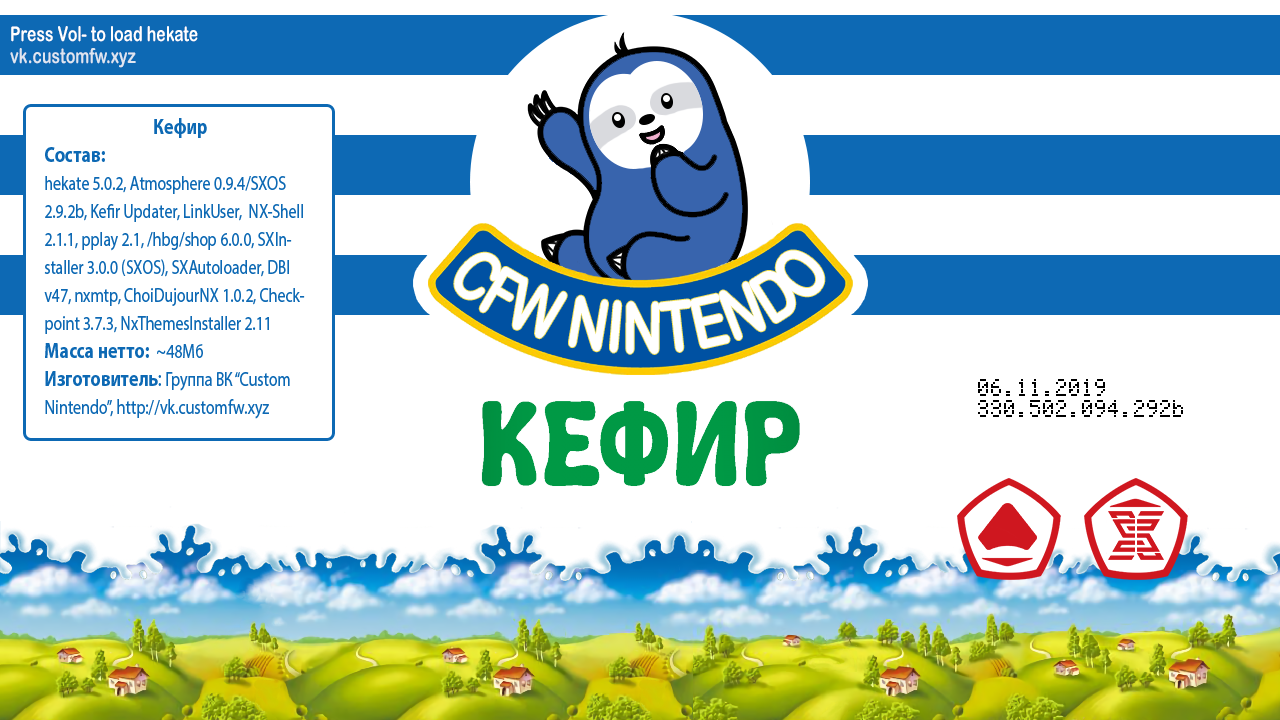
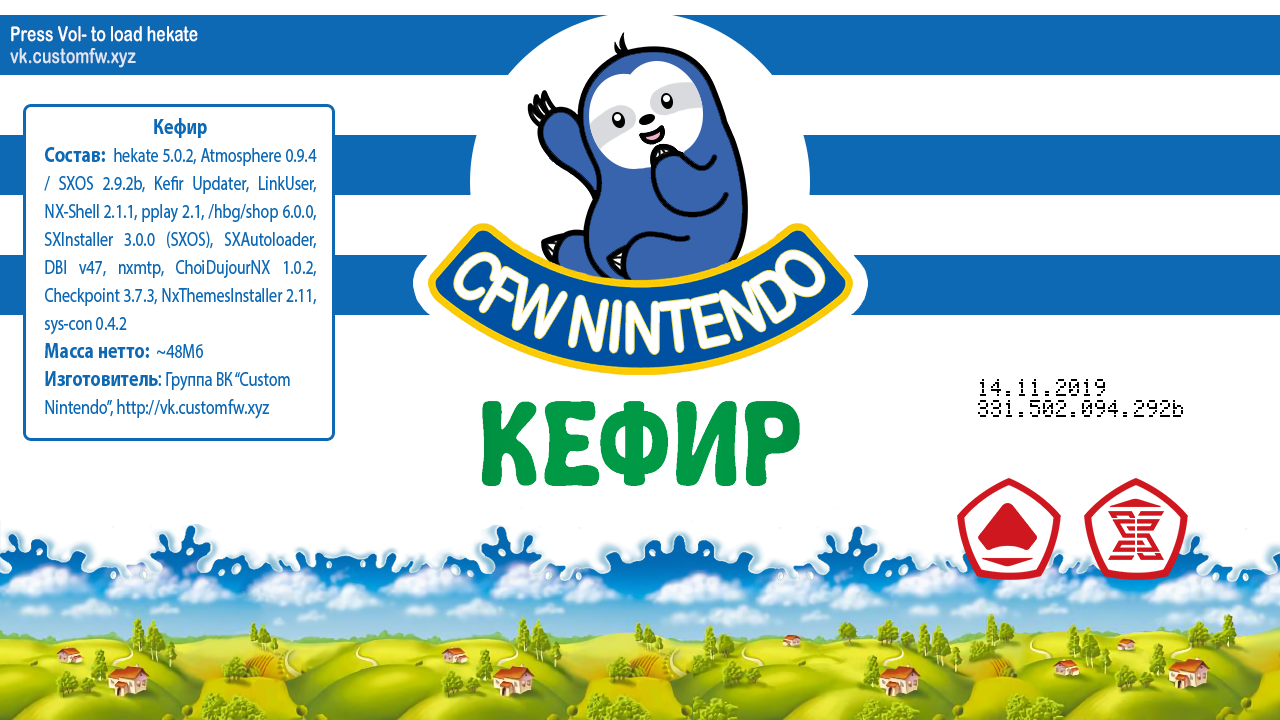
kefir

Changed region(s): [[0.0312, 0.2139, 0.25, 0.4583], [0.75, 0.5194, 0.7812, 0.55]]

diff --git a/_pages/kefir.md b/_pages/kefir.md
@@ -25,18 +25,19 @@ ____
 * Поддерживает запуск через [Fusée Gelée](fusee-gelee){:target="_blank"} или [Caffeine](caffeine){:target="_blank"}
 * [hekate](https://github.com/CTCaer/hekate/releases/latest){:target="_blank"} и [ACID-патчи для неё](https://github.com/Joonie86/hekate/releases/latest){:target="_blank"}
 * Homebrew 
-  * [Kefir Updater](https://github.com/Povstalez/Kefir-Updater/releases/latest){:target="_blank"} - программа для обновления kefir через интернет
+  * [Kefir Updater](https://github.com/rashevskyv/kefir-updater/releases){:target="_blank"} - программа для обновления kefir через интернет
   * [mercury](https://github.com/team-mercure/mercury/releases){:target="_blank"} - проприетарный файловый менеджер от blawar. Необходим для работы tinfoil
   * [NX-Shell](https://github.com/joel16/NX-Shell/releases/latest){:target="_blank"} - файловый менеджер
   * [Checkpoint](https://github.com/FlagBrew/Checkpoint/releases/latest){:target="_blank"} - программа для [резервного копирования и восстановления сейвов](checkpoint){:target="_blank"}
   * [Lockpick_RCM](https://github.com/shchmue/Lockpick_RCM/releases/latest){:target="_blank"} - программа для [дампа ключей приставки](backup-nand#часть-iii---дампим-ключи){:target="_blank"}
   * [pplay](https://github.com/Cpasjuste/pplay/releases/latest){:target="_blank"} - видеоплеер 
-  * [{% include /inc/tinfoil.txt %}](https://discord.io/homebrew){:target="_blank"} - программа, позволяющая [качать игры](tinfoil){:target="_blank"} для приставки прямо из сети 
+  * [{% include /inc/tinfoil.txt %}](https://discord.gg/qxdYtrJ){:target="_blank"} - программа, позволяющая [качать игры](tinfoil){:target="_blank"} для приставки прямо из сети 
   * [ChoiDujourNX ](https://switchtools.sshnuke.net/){:target="_blank"} - программа для [безопасного обновления](update-to-latest){:target="_blank"} версии системного ПО приставки
   * [nxmtp](https://github.com/liuervehc/nxmtp/releases/latest){:target="_blank"} - программа, монтирующая карту памяти Switch в виде MTP-устройства. Подключите приставку к ПК кабелем и запустите программу 
   * [NXThemes Installer](https://github.com/exelix11/SwitchThemeInjector/releases/latest){:target="_blank"} - менеджер кастомных тем 
   * DBI - программа для [установки игр](games){:target="_blank"} по USB или с карты памяти
   * [SXInstaller](https://sx.xecuter.com/){:target="_blank"} (SXOS only) - аналог tinfoil для SXOS
+  * [sys-con](https://github.com/cathery/sys-con/releases/latest){:target="_blank"} - модуль, позволяющий подключать к консоли по USB практически любые геймпады
 
 ____
 

diff --git a/_pages/faq.md b/_pages/faq.md
@@ -67,7 +67,7 @@ author_profile: true
 {% endspoiler %}
 
 {% spoiler Что лучше FAT32 или exFAT?  %}
-**О:** [Развёрнутый ответ](https://4pda.ru/forum/index.php?showtopic=900987&st=12680#entry84707349){:target="_blank"}
+**О:** [Развёрнутый ответ](https://github.com/libretro/RetroArch/issues/7480#issuecomment-434262799){:target="_blank"}
 
 Короткий ответ - конкретно на Switch FAT32 сильно надёжнее и гораздо более щадящий для карты памяти. Но вы не сможете закинуть на карту в FAT32 файлы больше 4Гб. Все игры большего размера придётся [устанавливать по USB](dbi#установка-приложений-в-формате-nsp-по-usb){:target="_blank"} или [разбивать NSP для установки на части](https://github.com/AnalogMan151/splitNSP/releases/latest){:target="_blank"}. 
 
